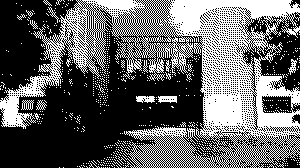
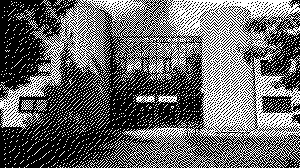
Add error diffusion dithering modes and refactor main logic for improved image processing

diff --git a/src/main.rs b/src/main.rs
@@ -10,6 +10,8 @@ mod error_diffusion;
 use utils::*;
 use bayer::*;
 use error_diffusion::*;
+use crate::image::Rgb;
+use crate::image::Rgba;
 
 #[derive(Debug, Clone, PartialEq, FromArgs)]
 /// Convertit une image en monochrome ou vers une palette rÃ©duite de couleurs.
@@ -35,7 +37,9 @@ enum Mode {
     Palette(OptsPalette),
     Tramage(OptsTramage),
     TramageBayer(OptsTramageBayer),
-    DiffusionErreur(OptsDiffusionErreur)
+    DiffusionErreur(OptsDiffusionErreur),
+    DiffusionErreurPalette(OptsDiffusionErreurPalette),
+    DiffusionErreurFloyd(OptsDiffusionErreurPaletteFloyd),
 }
 
 #[derive(Debug, Clone, PartialEq, FromArgs)]
@@ -81,6 +85,217 @@ struct OptsTramageBayer {
 struct OptsDiffusionErreur {
 }
 
+#[derive(Debug, Clone, PartialEq, FromArgs)]
+#[argh(subcommand, name="diffusion-erreur-palette")]
+/// Rendu de lâimage par diffusion dâerreur avec palette
+struct OptsDiffusionErreurPalette {
+}
+
+#[derive(Debug, Clone, PartialEq, FromArgs)]
+#[argh(subcommand, name="diffusion-erreur-floyd")]
+/// Rendu de lâimage par diffusion dâerreur de Floyd-Steinberg
+struct OptsDiffusionErreurPaletteFloyd {
+}
+
+ 
+const WHITE: image::Rgb<u8> = image::Rgb([255, 255, 255]);
+const GREY: image::Rgb<u8> = image::Rgb([127, 127, 127]);
+const BLACK: image::Rgb<u8> = image::Rgb([0, 0, 0]);
+const BLUE: image::Rgb<u8> = image::Rgb([0, 0, 255]);
+const RED: image::Rgb<u8> = image::Rgb([255, 0, 0]);
+const GREEN: image::Rgb<u8> = image::Rgb([0, 255, 0]);
+const YELLOW: image::Rgb<u8> = image::Rgb([255, 255, 0]);
+const MAGENTA: image::Rgb<u8> = image::Rgb([255, 0, 255]);
+const CYAN: image::Rgb<u8> = image::Rgb([0, 255, 255]);
+
+fn generate_bayer_matrix(order: usize) -> Vec<Vec<f64>> {
+    let mut matrix = vec![vec![0.0; order]; order];
+    matrix[0][0] = 0.0;
+
+    for n in 1..=(order as f64).log2() as usize {
+        let current_size = 2_usize.pow(n as u32);
+        let half_size = current_size / 2;
+
+        for i in 0..half_size {
+            for j in 0..half_size {
+                matrix[i][j] *= 4.0;
+                matrix[i][j + half_size] = matrix[i][j] + 2.0;
+                matrix[i + half_size][j] = matrix[i][j] + 3.0;
+                matrix[i + half_size][j + half_size] = matrix[i][j] + 1.0;
+            }
+        }
+    }
+
+    // Normalisation
+    matrix.iter_mut()
+        .flat_map(|row| row.iter_mut())
+        .for_each(|val| *val /= (order * order) as f64);
+
+    matrix
+}
+
+fn apply_bayer_dithering(img_rgb: &image::RgbImage) -> image::RgbImage {
+    let (width, height) = img_rgb.dimensions();
+    let mut img_out = image::ImageBuffer::new(width, height);
+    
+    // Générer une matrice de Bayer 8x8
+    let bayer_matrix = generate_bayer_matrix(8);
+    
+    for (x, y, pixel) in img_rgb.enumerate_pixels() {
+        let luma = pixel.to_luma().0[0] as f64 / 255.0;
+        let seuil = bayer_matrix[y as usize % 8][x as usize % 8];
+        
+        let output_pixel = if luma > seuil { WHITE } else { BLACK };
+        img_out.put_pixel(x, y, output_pixel);
+    }
+    
+    img_out
+}
+
+fn diffusion_erreur(img_rgb: &image::RgbImage, img_out: &mut image::RgbImage) -> image::RgbImage {
+    let mut img_rgb = img_rgb.clone();
+    let width = img_rgb.width();
+    let height = img_rgb.height();
+
+    for y in 0..height {
+        for x in 0..width {
+            let pixel = img_rgb.get_pixel(x, y);
+            let luma = pixel.to_luma().0[0] as f64 / 255.0;
+            let new_pixel = if luma > 0.5 { WHITE } else { BLACK };
+            img_out.put_pixel(x, y, new_pixel);
+
+            let error = luma - if luma > 0.5 { 1.0 } else { 0.0 };
+
+            if x + 1 < width {
+                let next_pixel = img_rgb.get_pixel(x + 1, y);
+                let next_luma = next_pixel.to_luma().0[0] as f64 / 255.0;
+                let new_luma = (next_luma + error * 0.5).clamp(0.0, 1.0);
+                let new_color = image::Luma([(new_luma * 255.0) as u8]);
+                img_rgb.put_pixel(x + 1, y, image::Rgb([new_color[0], new_color[0], new_color[0]]));
+            }
+
+            if y + 1 < height {
+                let next_pixel = img_rgb.get_pixel(x, y + 1);
+                let next_luma = next_pixel.to_luma().0[0] as f64 / 255.0;
+                let new_luma = (next_luma + error * 0.5).clamp(0.0, 1.0);
+                let new_color = image::Luma([(new_luma * 255.0) as u8]);
+                img_rgb.put_pixel(x, y + 1, image::Rgb([new_color[0], new_color[0], new_color[0]]));
+            }
+        }
+    }
+
+    return img_rgb
+}
+
+fn diffusion_erreur_palette(
+    img_rgb: &image::RgbImage,
+    palette: &[image::Rgb<u8>],
+    error_matrix: &[Vec<f32>],
+    x_origin: usize,
+    y_origin: usize,
+) -> image::RgbImage {
+    let (width, height) = img_rgb.dimensions();
+    let mut img_out = img_rgb.clone();
+
+    for y in 0..height {
+        for x in 0..width {
+            let original_pixel = img_out.get_pixel(x, y);
+            let closest_color = palette
+                .iter()
+                .min_by(|&&a, &&b| {
+                    color_distance(*original_pixel, a).total_cmp(&color_distance(*original_pixel, b))
+                })
+                .unwrap();
+
+            let error = [
+                original_pixel[0] as f32 - closest_color[0] as f32,
+                original_pixel[1] as f32 - closest_color[1] as f32,
+                original_pixel[2] as f32 - closest_color[2] as f32,
+            ];
+
+            img_out.put_pixel(x, y, *closest_color);
+
+            for y_error in 0..error_matrix.len() {
+                for x_error in 0..error_matrix[y_error].len() {
+                    let error_value = error_matrix[y_error][x_error];
+                    let target_x = x as i32 + (x_error as i32 - x_origin as i32);
+                    let target_y = y as i32 + (y_error as i32 - y_origin as i32);
+
+                    if target_x >= 0 && target_x < width as i32 && target_y >= 0 && target_y < height as i32 {
+                        let mut neighbor_pixel = img_out.get_pixel_mut(target_x as u32, target_y as u32);
+                        for i in 0..3 {
+                            let adjusted_value = (neighbor_pixel[i] as f32 + error[i] * error_value).clamp(0.0, 255.0);
+                            neighbor_pixel[i] = adjusted_value as u8;
+                        }
+                    }
+                }
+            }
+        }
+    }
+
+    img_out
+}
+
+fn diffusion_erreur_floyd_steinberg(
+    img_rgb: &image::RgbImage,
+    palette: &[image::Rgb<u8>],
+) -> image::RgbImage {
+    let (width, height) = img_rgb.dimensions();
+    let mut img_out = img_rgb.clone();
+
+    // Matrice de diffusion de Floyd-Steinberg
+    let error_matrix = vec![
+        vec![0.0, 0.0, 7.0 / 16.0],
+        vec![3.0 / 16.0, 5.0 / 16.0, 1.0 / 16.0],
+    ];
+
+    let matrix_width = error_matrix[0].len();
+    let matrix_height = error_matrix.len();
+    let x_origin = 1; // Position du pixel courant dans la matrice
+    let y_origin = 0;
+
+    for y in 0..height {
+        for x in 0..width {
+            let original_pixel = img_out.get_pixel(x, y);
+            let closest_color = palette
+                .iter()
+                .min_by(|&&a, &&b| {
+                    color_distance(*original_pixel, a).total_cmp(&color_distance(*original_pixel, b))
+                })
+                .unwrap();
+
+            let error = [
+                original_pixel[0] as f32 - closest_color[0] as f32,
+                original_pixel[1] as f32 - closest_color[1] as f32,
+                original_pixel[2] as f32 - closest_color[2] as f32,
+            ];
+
+            img_out.put_pixel(x, y, *closest_color);
+
+            // Diffusion de l'erreur
+            for y_error in 0..matrix_height {
+                for x_error in 0..matrix_width {
+                    let error_value = error_matrix[y_error][x_error];
+                    let target_x = x as i32 + (x_error as i32 - x_origin as i32);
+                    let target_y = y as i32 + (y_error as i32 - y_origin as i32);
+
+                    if target_x >= 0 && target_x < width as i32 && target_y >= 0 && target_y < height as i32 {
+                        let mut neighbor_pixel = img_out.get_pixel_mut(target_x as u32, target_y as u32);
+                        for i in 0..3 {
+                            let adjusted_value = (neighbor_pixel[i] as f32 + error[i] * error_value).clamp(0.0, 255.0);
+                            neighbor_pixel[i] = adjusted_value as u8;
+                        }
+                    }
+                }
+            }
+        }
+    }
+
+    img_out
+}
+
+
+
 fn main() -> Result<(), ImageError>{
     let args: DitherArgs = argh::from_env();
     let path_in = args.input;
@@ -90,7 +305,7 @@ fn main() -> Result<(), ImageError>{
 
     println!("Image ouverte: {}x{}", img.width(), img.height());
     
-    let img_rgb = img.to_rgb8();
+    let mut img_rgb = img.to_rgb8();
 
     let mut img_out = image::ImageBuffer::new(img_rgb.width(), img_rgb.height());
 
@@ -117,7 +332,7 @@ fn main() -> Result<(), ImageError>{
             }
         },
         Mode::Palette(opts) => {
-            let palette = vec![BLACK, WHITE, RED, GREEN, BLUE, YELLOW, CYAN, MAGENTA];
+            let palette = vec![BLACK, WHITE, RED, BLUE, GREEN];
             let nb_couleur = opts.n_couleurs;
             if nb_couleur < 2 {
                 return Err(image::ImageError::from(std::io::Error::new(
@@ -155,22 +370,27 @@ fn main() -> Result<(), ImageError>{
             img_out = apply_bayer_dithering(&img_rgb);
         },
         Mode::DiffusionErreur(_) => {
-            // Convertir l'image en niveaux de gris
-            let img_gray = img.to_luma8();
-            
-            // Appliquer l'algorithme de diffusion d'erreur
-            let img_dithered = error_diffusion_dithering(&img_gray);
-            
-            // Copier les pixels dans l'image de sortie (en RGB)
-            for (x, y, pixel) in img_dithered.enumerate_pixels() {
-                let color = if pixel[0] == 255 { WHITE } else { BLACK };
-                img_out.put_pixel(x, y, color);
-            }
+            diffusion_erreur(&img_rgb, &mut img_out);
+        },
+        Mode::DiffusionErreurPalette(opts) => {
+            let palette = vec![BLACK, WHITE, RED, GREEN, BLUE, YELLOW, CYAN, MAGENTA];
+        
+            let error_matrix = vec![
+                vec![0.0, 0.5],
+                vec![0.5, 0.0],
+            ];
+        
+            img_out = diffusion_erreur_palette(&img_rgb, &palette, &error_matrix, 0, 0);
+        },
+        Mode::DiffusionErreurFloyd(_) => {
+            let palette = vec![BLACK, WHITE]; // Palette monochrome par défaut
+            img_out = diffusion_erreur_floyd_steinberg(&img_rgb, &palette);
         }
         
+        
+    
+        
     }
-    
-    
 
     img_out.save(path_out)?;
 
